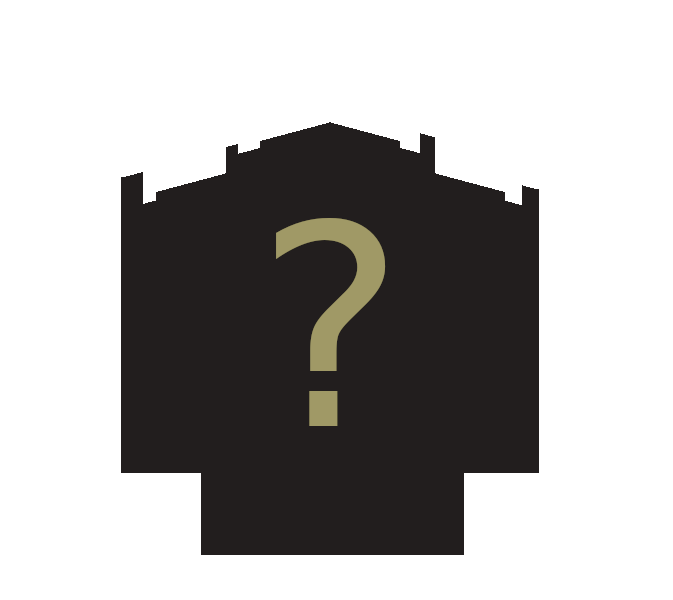
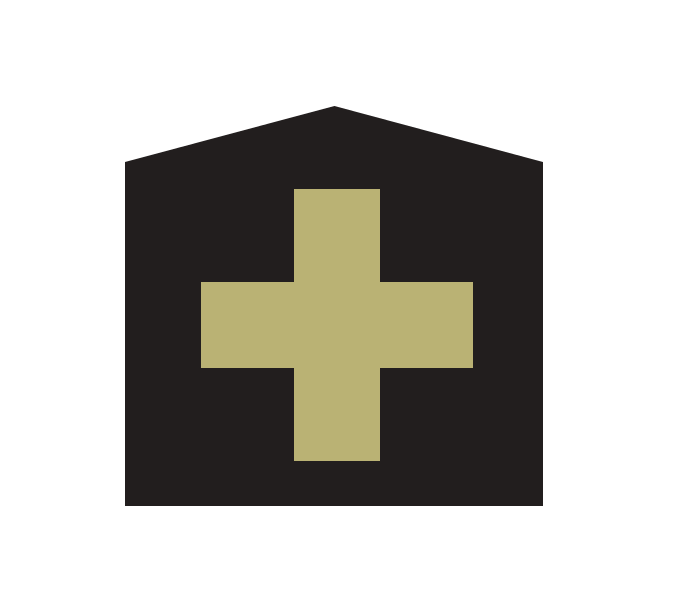
miss card graphic and its hitbox

Changed region(s): [[0.156, 0.18, 0.8113, 0.93], [0.2808, 0.3, 0.7177, 0.78]]

diff --git a/Assets/Scripts/UI/Draggable.cs b/Assets/Scripts/UI/Draggable.cs
@@ -28,8 +28,8 @@ public class Draggable : MonoBehaviour, IBeginDragHandler, IDragHandler, IEndDra
     public void OnEndDrag(PointerEventData eventData)
     {
 
-        if (eventData.position.x > 150 && eventData.position.x < 250 &&
-            eventData.position.y > 850 && eventData.position.y < 950) {
+        if (eventData.position.x > 100 && eventData.position.x < 300 &&
+            eventData.position.y > 800 && eventData.position.y < 1000) {
                 transform.parent.GetComponentInChildren<CardPlaceContent>().SetContent(gameObject);
             }
 
